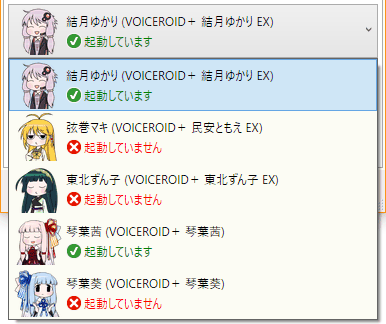
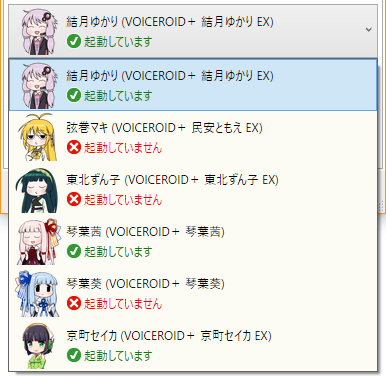
- 京町セイカ追加。 - version 1.1.0 更新対応。

Changed region(s): [[0.0, 0.0, 0.9948, 1.0], [0.9637, 0.5556, 1.0, 0.679], [0.9326, 0.0617, 0.9637, 0.0926]]

diff --git a/VoiceroidUtil/resources/VoiceroidStyles.xaml b/VoiceroidUtil/resources/VoiceroidStyles.xaml
@@ -99,6 +99,24 @@
                     Property="Source"
                     Value="/VoiceroidUtil;component/resources/voiceroid/aoi_ok.png" />
             </MultiDataTrigger>
+            <MultiDataTrigger>
+                <MultiDataTrigger.Conditions>
+                    <Condition Binding="{Binding Id}" Value="SeikaEx" />
+                    <Condition Binding="{Binding IsRunning}" Value="False" />
+                </MultiDataTrigger.Conditions>
+                <Setter
+                    Property="Source"
+                    Value="/VoiceroidUtil;component/resources/voiceroid/seika_ng.png" />
+            </MultiDataTrigger>
+            <MultiDataTrigger>
+                <MultiDataTrigger.Conditions>
+                    <Condition Binding="{Binding Id}" Value="SeikaEx" />
+                    <Condition Binding="{Binding IsRunning}" Value="True" />
+                </MultiDataTrigger.Conditions>
+                <Setter
+                    Property="Source"
+                    Value="/VoiceroidUtil;component/resources/voiceroid/seika_ok.png" />
+            </MultiDataTrigger>
         </Style.Triggers>
     </Style>
 

diff --git a/VoiceroidUtil/View/VoiceroidView.xaml b/VoiceroidUtil/View/VoiceroidView.xaml
@@ -50,7 +50,7 @@
                             <StackPanel Orientation="Horizontal">
                                 <TextBlock Text="{Binding Name}" />
                                 <TextBlock Text=" (" />
-                                <TextBlock Text="{Binding Product}" />
+                                <TextBlock Text="{Binding DisplayProduct}" />
                                 <TextBlock Text=")" />
                             </StackPanel>
                             <StackPanel Orientation="Horizontal" Margin="0,4,0,0">

diff --git a/VoiceroidUtil/View/MainWindow.xaml b/VoiceroidUtil/View/MainWindow.xaml
@@ -16,7 +16,7 @@
     ResizeMode="CanResizeWithGrip"
     UseLayoutRounding="True"
     Width="400"
-    Height="460"
+    Height="488"
     MinWidth="320"
     MinHeight="232">
     <Window.DataContext>

diff --git a/RucheHome.Voiceroid/ProcessFactory.ProcessImpl.cs b/RucheHome.Voiceroid/ProcessFactory.ProcessImpl.cs
@@ -34,8 +34,6 @@ namespace RucheHome.Voiceroid
                 }
 
                 this.Id = id;
-                this.Name = id.GetInfo().Name;
-                this.Product = id.GetInfo().Product;
             }
 
             /// <summary>
@@ -626,12 +624,26 @@ namespace RucheHome.Voiceroid
             /// <summary>
             /// VOICEROID名を取得する。
             /// </summary>
-            public string Name { get; }
+            public string Name
+            {
+                get { return this.Id.GetInfo().Name; }
+            }
 
             /// <summary>
             /// プロダクト名を取得する。
             /// </summary>
-            public string Product { get; }
+            public string Product
+            {
+                get { return this.Id.GetInfo().Product; }
+            }
+
+            /// <summary>
+            /// 表示プロダクト名を取得する。
+            /// </summary>
+            public string DisplayProduct
+            {
+                get { return this.Id.GetInfo().DisplayProduct; }
+            }
 
             /// <summary>
             /// プロセスが実行中であるか否かを取得する。

diff --git a/RucheHome.Voiceroid/VoiceroidInfo.cs b/RucheHome.Voiceroid/VoiceroidInfo.cs
@@ -13,14 +13,19 @@ namespace RucheHome.Voiceroid
         /// <param name="id">VOICEROID識別ID。</param>
         /// <param name="name">VOICEROID名。</param>
         /// <param name="product">プロダクト名。</param>
+        /// <param name="displayProduct">
+        /// 表示プロダクト名。プロダクト名と同一ならば null を指定してよい。
+        /// </param>
         internal VoiceroidInfo(
             VoiceroidId id,
             string name,
-            string product)
+            string product,
+            string displayProduct = null)
         {
             this.Id = id;
             this.Name = name;
             this.Product = product;
+            this.DisplayProduct = displayProduct ?? product;
         }
 
         /// <summary>
@@ -37,5 +42,10 @@ namespace RucheHome.Voiceroid
         /// プロダクト名を取得する。
         /// </summary>
         public string Product { get; }
+
+        /// <summary>
+        /// 表示プロダクト名を取得する。
+        /// </summary>
+        public string DisplayProduct { get; }
     }
 }

diff --git a/RucheHome.Voiceroid/VoiceroidId.cs b/RucheHome.Voiceroid/VoiceroidId.cs
@@ -40,6 +40,12 @@ namespace RucheHome.Voiceroid
         /// </summary>
         [EnumMember]
         Aoi,
+
+        /// <summary>
+        /// 京町セイカ EX
+        /// </summary>
+        [EnumMember]
+        SeikaEx,
     }
 
     /// <summary>
@@ -84,6 +90,11 @@ namespace RucheHome.Voiceroid
                     VoiceroidId.Aoi,
                     @"琴葉葵",
                     @"VOICEROID＋ 琴葉葵"),
+                new VoiceroidInfo(
+                    VoiceroidId.SeikaEx,
+                    @"京町セイカ",
+                    @"VOICEROID＋ 京町セイカ",
+                    @"VOICEROID＋ 京町セイカ EX"),
             }
             .ToDictionary(info => info.Id);
     }

diff --git a/RucheHome.Voiceroid/IProcess.cs b/RucheHome.Voiceroid/IProcess.cs
@@ -25,6 +25,11 @@ namespace RucheHome.Voiceroid
         string Product { get; }
 
         /// <summary>
+        /// 表示プロダクト名を取得する。
+        /// </summary>
+        string DisplayProduct { get; }
+
+        /// <summary>
         /// プロセスが実行中であるか否かを取得する。
         /// </summary>
         bool IsRunning { get; }

diff --git a/RucheHome.Voiceroid/Properties/AssemblyInfo.cs b/RucheHome.Voiceroid/Properties/AssemblyInfo.cs
@@ -32,7 +32,7 @@ using System.Windows.Markup;
 // すべての値を指定するか、下のように '*' を使ってビルドおよびリビジョン番号を 
 // 既定値にすることができます:
 // [assembly: AssemblyVersion("1.0.*")]
-[assembly: AssemblyVersion("1.0.0.*")]
+[assembly: AssemblyVersion("1.1.0.*")]
 
 // XML名前空間
 [assembly: XmlnsDefinition(

diff --git a/VoiceroidUtil/Properties/AssemblyInfo.cs b/VoiceroidUtil/Properties/AssemblyInfo.cs
@@ -49,4 +49,4 @@ using System.Windows;
 // すべての値を指定するか、下のように '*' を使ってビルドおよびリビジョン番号を 
 // 既定値にすることができます:
 // [assembly: AssemblyVersion("1.0.*")]
-[assembly: AssemblyVersion("1.0.0.*")]
+[assembly: AssemblyVersion("1.1.0.*")]
